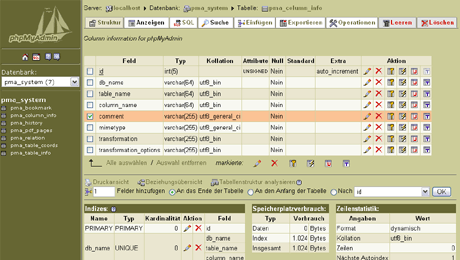
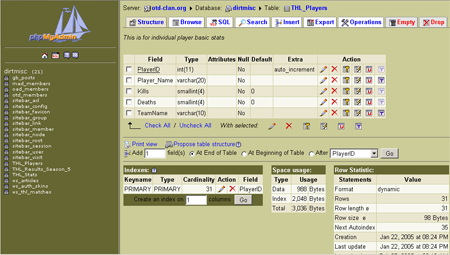
update

diff --git a/xp_dirty/css/theme_right.css.php b/xp_dirty/css/theme_right.css.php
@@ -26,23 +26,23 @@ textarea        {font-family: <?php echo $right_font_family; ?>; font-size: <?ph
 h1              {font-family: <?php echo $right_font_family; ?>; font-size: <?php echo $font_biggest; ?>; font-weight: bold}
 h2              {font-family: <?php echo $right_font_family; ?>; font-size: <?php echo $font_bigger; ?>; font-weight: bold}
 h3              {font-family: <?php echo $right_font_family; ?>; font-size: <?php echo $font_size; ?>; font-weight: bold}
-a:link          {font-family: <?php echo $right_font_family; ?>; font-size: <?php echo $font_size; ?>; text-decoration: none; color: #666633}
-a:visited       {font-family: <?php echo $right_font_family; ?>; font-size: <?php echo $font_size; ?>; text-decoration: none; color: #666633}
-a:hover         {font-family: <?php echo $right_font_family; ?>; font-size: <?php echo $font_size; ?>; text-decoration: underline; color: #666633}
-a.nav:link      {font-family: <?php echo $right_font_family; ?>; color: #666633}
-a.nav:visited   {font-family: <?php echo $right_font_family; ?>; color: #666633}
-a.nav:hover     {font-family: <?php echo $right_font_family; ?>; color: #666633}
-a.h1:link       {font-family: <?php echo $right_font_family; ?>; font-size: <?php echo $font_biggest; ?>; font-weight: bold; color: #666633}
-a.h1:active     {font-family: <?php echo $right_font_family; ?>; font-size: <?php echo $font_biggest; ?>; font-weight: bold; color: #666633}
-a.h1:visited    {font-family: <?php echo $right_font_family; ?>; font-size: <?php echo $font_biggest; ?>; font-weight: bold; color: #666633}
-a.h1:hover      {font-family: <?php echo $right_font_family; ?>; font-size: <?php echo $font_biggest; ?>; font-weight: bold; color: #666633}
-a.h2:link       {font-family: <?php echo $right_font_family; ?>; font-size: <?php echo $font_bigger; ?>; font-weight: bold; color: #666633}
-a.h2:active     {font-family: <?php echo $right_font_family; ?>; font-size: <?php echo $font_bigger; ?>; font-weight: bold; color: #666633}
-a.h2:visited    {font-family: <?php echo $right_font_family; ?>; font-size: <?php echo $font_bigger; ?>; font-weight: bold; color: #666633}
-a.h2:hover      {font-family: <?php echo $right_font_family; ?>; font-size: <?php echo $font_bigger; ?>; font-weight: bold; color: #666633}
-a.drop:link     {font-family: <?php echo $right_font_family; ?>; color: #cc0000}
-a.drop:visited  {font-family: <?php echo $right_font_family; ?>; color: #cc0000;}
-a.drop:hover    {font-family: <?php echo $right_font_family; ?>; color: #cc0000; text-decoration: none}
+a:link          {font-family: <?php echo $right_font_family; ?>; font-size: <?php echo $font_size; ?>; text-decoration: none; color: #0000FF}
+a:visited       {font-family: <?php echo $right_font_family; ?>; font-size: <?php echo $font_size; ?>; text-decoration: none; color: #0000FF}
+a:hover         {font-family: <?php echo $right_font_family; ?>; font-size: <?php echo $font_size; ?>; text-decoration: underline; color: #FF0000}
+a.nav:link      {font-family: <?php echo $right_font_family; ?>; color: #000000}
+a.nav:visited   {font-family: <?php echo $right_font_family; ?>; color: #000000}
+a.nav:hover     {font-family: <?php echo $right_font_family; ?>; color: #FF0000}
+a.h1:link       {font-family: <?php echo $right_font_family; ?>; font-size: <?php echo $font_biggest; ?>; font-weight: bold; color: #000000}
+a.h1:active     {font-family: <?php echo $right_font_family; ?>; font-size: <?php echo $font_biggest; ?>; font-weight: bold; color: #000000}
+a.h1:visited    {font-family: <?php echo $right_font_family; ?>; font-size: <?php echo $font_biggest; ?>; font-weight: bold; color: #000000}
+a.h1:hover      {font-family: <?php echo $right_font_family; ?>; font-size: <?php echo $font_biggest; ?>; font-weight: bold; color: #FF0000}
+a.h2:link       {font-family: <?php echo $right_font_family; ?>; font-size: <?php echo $font_bigger; ?>; font-weight: bold; color: #000000}
+a.h2:active     {font-family: <?php echo $right_font_family; ?>; font-size: <?php echo $font_bigger; ?>; font-weight: bold; color: #000000}
+a.h2:visited    {font-family: <?php echo $right_font_family; ?>; font-size: <?php echo $font_bigger; ?>; font-weight: bold; color: #000000}
+a.h2:hover      {font-family: <?php echo $right_font_family; ?>; font-size: <?php echo $font_bigger; ?>; font-weight: bold; color: #FF0000}
+a.drop:link     {font-family: <?php echo $right_font_family; ?>; color: #ff0000}
+a.drop:visited  {font-family: <?php echo $right_font_family; ?>; color: #ff0000}
+a.drop:hover    {font-family: <?php echo $right_font_family; ?>; color: #ffffff; background-color:#ff0000; text-decoration: none}
 dfn             {font-style: normal}
 dfn:hover       {font-style: normal; cursor: help}
 .nav            {font-family: <?php echo $right_font_family; ?>; color: #000000}
@@ -136,19 +136,19 @@ hr{ color: #666666; background-color: #666666; border: 0; height: 1px; }
     border-top: none;
     border-right: none;
     border-left: none;
-    border-bottom: 1px solid #666666;
+    border-bottom: 1px solid #666;
 }
 .navSpacer {
-    width:            2px;
+    width:            5px;
     height:           16px;
 }
 .navNormal, .navDrop, .navActive {
     font-family:      <?php echo $right_font_family; ?>;
     font-size:        <?php echo $font_size; ?>;
     font-weight:      bold;
-    border-top: 1px solid #999999;
-    border-right: 1px solid #666666;
-    border-left: 1px solid #999999;
+    border-top: 1px solid #999;
+    border-right: 1px solid #666;
+    border-left: 1px solid #999;
     border-bottom: none;
     border-radius: 2px;
     -moz-border-radius: 2px;
@@ -166,21 +166,22 @@ hr{ color: #666666; background-color: #666666; border: 0; height: 1px; }
     background-color: #EAE6D0;
 }
 .navDrop{
-    color: #cc0000;
+    color: #000000;
     background-color: #E5E5E5;
 }
 .navNormal a:link, .navNormal a:active, .navNormal a:visited, .navActive a:link, .navActive a:active, .navActive a:visited{
-    color: #666633;
+    color: #0000FF;
 }
 
 .navDrop a:link, .navDrop a:active, .navDrop a:visited{
-    color: #cc0000;
+    color: #FF0000;
 }
 .navDrop a:hover{
-    color: #cc0000;
+    color: #FFFFFF;
+    background-color: #FF0000;
 }
 .navNormal a:hover, .navActive a:hover{
-    color: #000000;
+    color: #FF0000;
 }
 
 /* Warning showing div with right border and optional icon */
@@ -190,7 +191,7 @@ div.errorhead {
     color: #ffffff;
     text-align: left;
     <?php if ($cfg['ErrorIconic'] && isset($js_isDOM) && $js_isDOM != '0') { ?>
-    background-image: url(../themes/xp_dirty/img/s_error.png);
+    background-image: url(../themes/original/img/s_error.png);
     background-repeat: no-repeat;
     background-position: 5px 50%;
     padding: 0px 0px 0px 25px;
@@ -223,9 +224,9 @@ div.tblWarn {
     color: #000000;
 }
 .tblHeaders a:link, .tblHeaders a:active, .tblHeaders a:visited, .tblFooters a:link, .tblFooters a:active, .tblFooters a:visited {
-    color: #F8F8F1;
+    color: #0000FF;
 }
-.tblHeaders a:hover, .tblFooters a:hover { color: #F8F8F1; }
+.tblHeaders a:hover, .tblFooters a:hover { color: #FF0000; }
 .tblHeadError {
     background-color: #FF0000;
     font-weight: bold;
@@ -268,7 +269,7 @@ img, input, select, button {
     margin: 0px 1px 0px 2px;
 }
 .serverinfo div{
-    background-image:    url(../themes/xp_dirty/img/item_ltr.png);
+    background-image:    url(../themes/original/img/item_ltr.png);
     background-repeat:   no-repeat;
     background-position: 50% 50%;
     width: 20px;

diff --git a/xp_dirty/css/theme_left.css.php b/xp_dirty/css/theme_left.css.php
@@ -1,74 +1,86 @@
-<?php
-    if (isset($num_dbs) && $num_dbs == '0') {
-    ?>
-/* No layer effects neccessary */
-div     {font-family: <?php echo $left_font_family; ?>; font-size: <?php echo $font_size; ?>; color: #FFFFFF}
-.heada  {font-family: <?php echo $left_font_family; ?>; font-size: <?php echo $font_size; ?>; color: #FFFFFF}
-.parent {font-family: <?php echo $left_font_family; ?>; color: #FFFFFF; text-decoration: none}
-.item, .item:active, .item:hover, .tblItem, .tblItem:active {font-family: <?php echo $left_font_family; ?>; font-size: <?php echo $font_smaller; ?>; color: #F8F8F1; text-decoration: none}
-.tblItem:hover {color: #CECECE; text-decoration: underline}
-    <?php
-    } else {
-        if (isset($js_capable) && $js_capable != '0') {
-            // Brian Birtles : This is not the ideal method of doing this
-            // but under the 7th June '00 Mozilla build (and many before
-            // it) Mozilla did not treat text between <style> tags as
-            // style information unless it was written with the one call
-            // to write().
-            if (isset($js_isDOM) && $js_isDOM != '0') {
-            ?>
-/* Layer effects neccessary: capable && is_DOM is set. We found a recent CSS-Browser */
-div {font-family: <?php echo $left_font_family; ?>; font-size: <?php echo $font_size; ?>; color: #FFFFFF}
-.heada {font-family: <?php echo $left_font_family; ?>; font-size: <?php echo $font_size; ?>; color: #FFFFFF}
-.headaCnt {font-family: <?php echo $left_font_family; ?>; font-size: <?php echo $font_smaller; ?>; color: #FFFFFF}
-.parent {font-family: <?php echo $left_font_family; ?>; color: #FFFFFF; text-decoration: none; display: block}
-.child {font-family: <?php echo $left_font_family; ?>; font-size: <?php echo $font_smaller; ?>; color: #FFFFFF; text-decoration: none; display: none}
-.item, .item:active, .item:hover, .tblItem, .tblItem:active {font-size: <?php echo $font_smaller; ?>; color: #F8F8F1; text-decoration: none}
-.tblItem:hover {color: #CECECE; text-decoration: underline}
-            <?php
-            } else {
-            ?>
-/* Layer effeccts neccessary: capable, but no is_DOM. We found an older CSS-Browser */
-div {font-family: <?php echo $left_font_family; ?>; font-size: <?php echo $font_size; ?>; color: #FFFFFF}
-.heada {font-family: <?php echo $left_font_family; ?>; font-size: <?php echo $font_size; ?>; color: #FFFFFF}
-.headaCnt {font-family: <?php echo $left_font_family; ?>; font-size: <?php echo $font_smaller; ?>; color: #FFFFFF}
-            <?php
-                if (isset($js_isIE4) && $js_isIE4 != '0') {
-            ?>
-/* Additional effects for IE4 */
-.parent {font-family: <?php echo $left_font_family; ?>; color: #FFFFFF; text-decoration: none; display: block}
-.child {font-family: <?php echo $left_font_family; ?>; font-size: <?php echo $font_smaller; ?>; color: #FFFFFF; text-decoration: none; display: none}
-.item, .item:active, .item:hover, .tblItem, .tblItem:active {font-size: <?php echo $font_smaller; ?>; color: #F8F8F1; text-decoration: none}
-.tblItem:hover {color: #CECECE; text-decoration: underline}
-            <?php
-                } else {
-            ?>
-/* Additional effects for NON-IE4 */
-.parent {font-family: <?php echo $left_font_family; ?>; color: #FFFFFF; text-decoration: none; position: absolute; visibility: hidden}
-.child {font-family: <?php echo $left_font_family; ?>; font-size: <?php echo $font_smaller; ?>; color: #FFFFFF; position: absolute; visibility: hidden}
-.item, .tblItem {font-family: <?php echo $left_font_family; ?>; font-size: <?php echo $font_smaller; ?>; color: #FFFFFF; text-decoration: none}
-            <?php
-                }
-            }
-        } else {
-        ?>
-/* Additional effects for left frame not required or not possible because of lacking CSS-capability. */
-div {font-family: <?php echo $left_font_family; ?>; font-size: <?php echo $font_size; ?>; color: #FFFFFF}
-.heada {font-family: <?php echo $left_font_family; ?>; font-size: <?php echo $font_size; ?>; color: #FFFFFF}
-.headaCnt {font-family: <?php echo $left_font_family; ?>; font-size: <?php echo $font_smaller; ?>; color: #FFFFFF}
-.parent {font-family: <?php echo $left_font_family; ?>; color: #FFFFFF; text-decoration: none}
-.child {font-family: <?php echo $left_font_family; ?>; font-size: <?php echo $font_smaller; ?>; color: #ffffff; text-decoration: none}
-.item, .item:active, .item:hover, .tblItem, .tblItem:active {font-size: <?php echo $font_smaller; ?>; color: #F8F8F1; text-decoration: none}
-.tblItem:hover {color: #CECECE; text-decoration: underline}
-        <?php
-        }
-    }
-    ?>
-/* Always enabled stylesheets (left frame) */
-body {font-family: <?php echo $left_font_family; ?>; font-size: <?php echo $font_size; ?>; }
-input   {font-family: <?php echo $left_font_family; ?>; font-size: <?php echo $font_size; ?>}
-select  {font-family: <?php echo $left_font_family; ?>; font-size: <?php echo $font_size; ?>; background-color: #ffffff; color: #000000}
+body, input, select {
+    font-family: <?php echo $left_font_family; ?>;
+    font-size: <?php echo $font_size; ?>;
+    color: #000000
+}
 
-img, input, select, button {
+body#body_leftFrame {
+    background-color: <?php echo $GLOBALS['cfg']['LeftBgColor']; ?>;
+}
+
+select {
+    background-color: #ffffff;
+    color: #000000;
+}
+
+div#pmalogo,
+div#leftframelinks,
+div#databaseList {
+    text-align: center;
+    border-bottom: 0.05em solid #669999;
+    margin-bottom: 0.5em;
+    padding-bottom: 0.5em;
+}
+
+div#leftframelinks img {
     vertical-align: middle;
+}
+
+div#leftframelinks a {
+    margin: 0.1em;
+    padding: 0.2em;
+    border: 0.05em solid #669999;
+}
+
+div#leftframelinks a:hover {
+    background-color: #669999;
+}
+
+div#databaseList form {
+    display: inline;
+}
+
+/* leftdatabaselist */
+div#left_tableList {
+    list-style-type: none;
+    list-style-position: outside;
+    margin: 0;
+    padding: 0;
+    font-size: <?php echo $font_smaller; ?>;
+}
+
+div#left_tableList a {
+//    color: #333399;
+    color: #FFFFFF;
+    text-decoration: none;
+}
+
+div#left_tableList a:hover {
+//    color: #FF0000;
+    color: #333399;
+    text-decoration: underline;
+}
+
+div#left_tableList li {
+    margin: 0;
+    padding: 0;
+    white-space: nowrap;
+}
+
+<?php if ( $GLOBALS['cfg']['LeftPointerEnable'] ) { ?>
+div#left_tableList li:hover {
+    background-color: <?php echo $GLOBALS['cfg']['LeftPointerColor']; ?>;
+}
+<?php } ?>
+
+div#left_tableList img {
+    vertical-align: middle;
+}
+
+div#left_tableList ul ul {
+    margin-left: 0em;
+    padding-left: 0.1em;
+    border-left: 0.1em solid #669999;
+    padding-bottom: 0.1em;
+    border-bottom: 0.1em solid #669999;
 }

diff --git a/xp_dirty/css/theme_print.css.php b/xp_dirty/css/theme_print.css.php
@@ -1,41 +1,41 @@
 /* For printview */
 body{
-    font-family:       Tahoma, Verdana, Arial, Helvetica, sans-serif;
+    font-family:       Tahoma, Verdana, Arial, Hevetica, sans-serif;
     font-size:         10px;
-    color:             #000000;
+    color:             #FFFFFF;
     background-color:  #ffffff;
 }
 h1{
-    font-family:       Tahoma, Verdana, Arial, Helvetica, sans-serif;
+    font-family:       Tahoma, Verdana, Arial, Hevetica, sans-serif;
     font-size:         16px;
     font-weight:       bold;
-    color:             #000000;
+    color:             #FFFFFF;
 }
 table{
     border-width:      1px;
-    border-color:      #000000;
+    border-color:      #FFFFFF;
     border-style:      solid;
     border-collapse:   collapse;
     border-spacing:    0;
 }
 th{
-    font-family:       Tahoma, Verdana, Arial, Helvetica, sans-serif;
+    font-family:       Tahoma, Verdana, Arial, Hevetica, sans-serif;
     font-size:         10px;
     font-weight:       bold;
-    color:             #000000;
+    color:             #FFFFFF;
     background-color:  #e5e5e5;
     border-width:      1px;
-    border-color:      #000000;
+    border-color:      #FFFFFF;
     border-style:      solid;
     padding:           2px;
 }
 td{
-    font-family:       Tahoma, Verdana, Arial, Helvetica, sans-serif;
+    font-family:       Tahoma, Verdana, Arial, Hevetica, sans-serif;
     font-size:         10px;
-    color:             #000000;
+    color:             #FFFFFF;
     background-color:  #ffffff;
     border-width:      1px;
-    border-color:      #000000;
+    border-color:      #FFFFFF;
     border-style:      solid;
     padding:           2px;
 }

diff --git a/xp_dirty/layout.inc.php b/xp_dirty/layout.inc.php
@@ -11,8 +11,8 @@ $cfg['Border']              = 0;            // border width on tables
 $cfg['ThBgcolor']           = '#EAE6D0';    // table header row colour
 $cfg['BgcolorOne']          = '#EAE6D0';    // table data row colour
 $cfg['BgcolorTwo']          = '#F8F8F1';    // table data row colour, alternate
-$cfg['BrowsePointerColor']  = '#FAE195';    // color of the pointer in browse mode
-$cfg['BrowseMarkerColor']   = '#FAC295';    // color of the marker (visually marks row
+$cfg['BrowsePointerColor']  = '';    // color of the pointer in browse mode
+$cfg['BrowseMarkerColor']   = 'yellow';    // color of the marker (visually marks row
                                             // by clicking on it) in browse mode
 /**
  * SQL Parser Settings

diff --git a/xp_dirty/info.inc.php b/xp_dirty/info.inc.php
@@ -1,10 +1,9 @@
 <?php
 /* Theme information */
-/* Theme by [OTD]Spockman(spockman@otd-clan.org)
-/* Based on WinXP Theme
-/* for 2.6.2 and higher
- */
-$theme_name = 'WinXP - Dirty';
+/* Theme by [OTD]Spockman(spockman@otd-clan.org) */
+/* Based on WinXP Theme */
+/* for 2.6.0 to 2.7.0 */
+$theme_name = 'WinXP Dirty';
 $theme_version = 2;
-$theme_generation = 1;
+$theme_generation = 2;
 ?>
